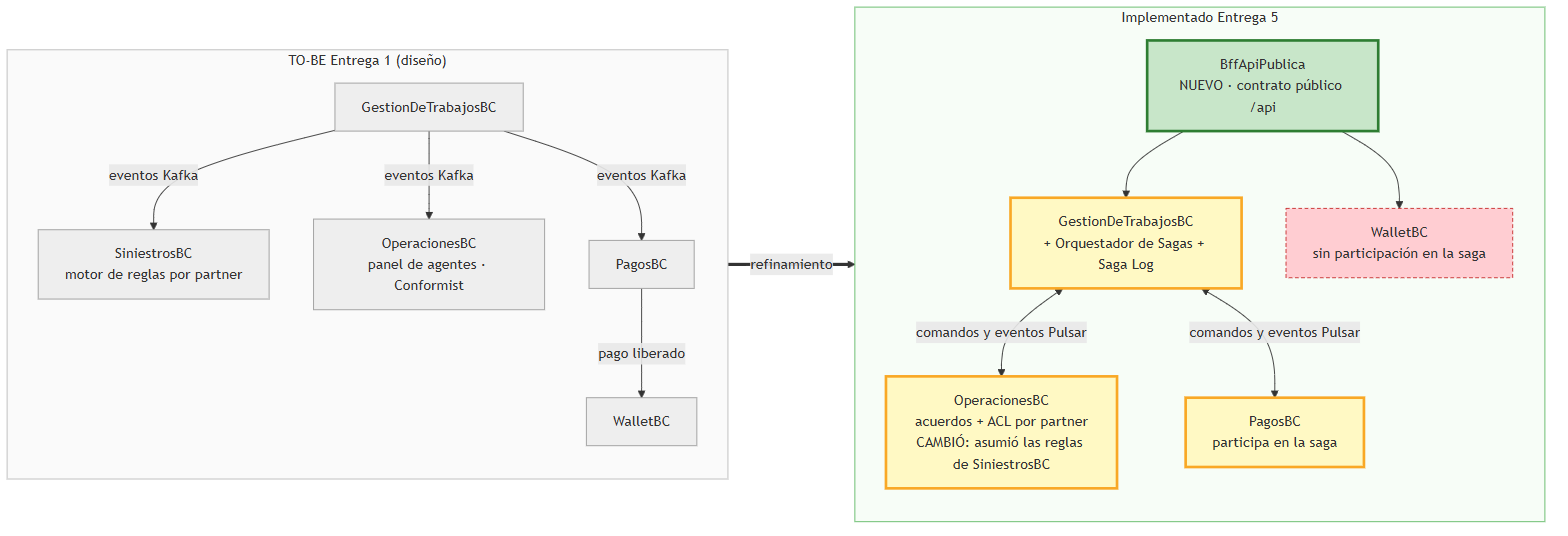
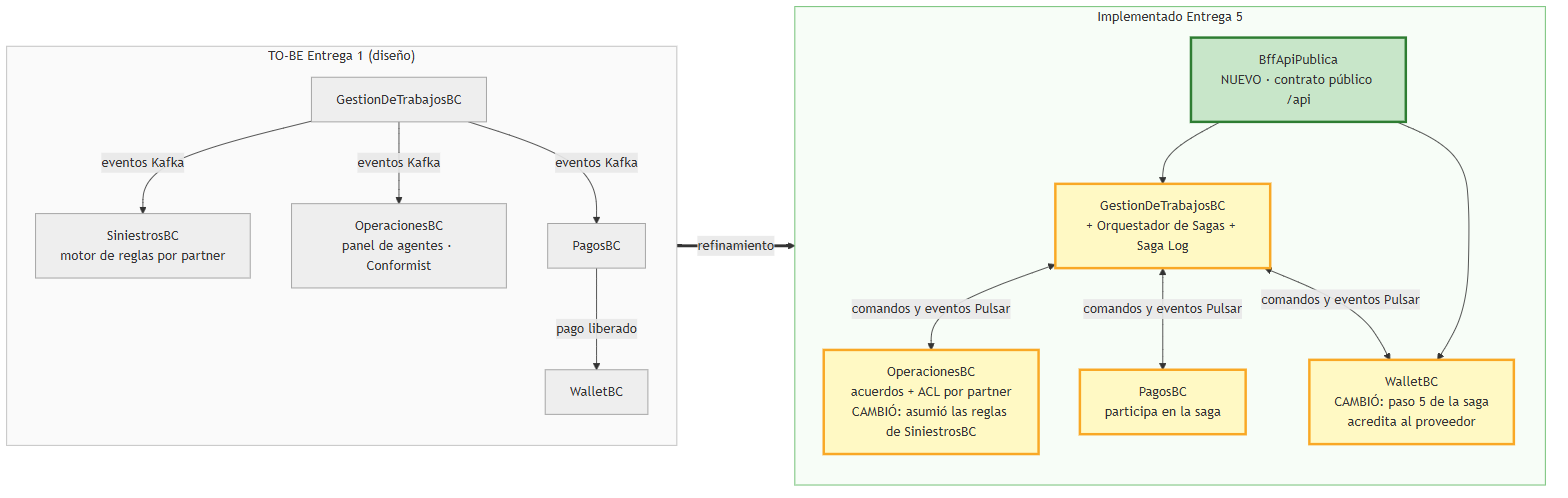
refinamiento y vistas

diff --git a/docs/semana-7/arquitectura-to-be-refinada.md b/docs/semana-7/arquitectura-to-be-refinada.md
@@ -25,10 +25,11 @@ Artefactos relacionados:
 | 2 | Reglas y acuerdos de partners | En `SiniestrosBC` | En **`OperacionesBC`** | El escenario de Modificabilidad #3 define como artefacto el "adaptador de entrada (ACL) para el nuevo partner en OperacionesBC" y exige **0 % de cambios en el dominio del core**. Poner las reglas junto al motor de trabajos habría obligado a redesplegarlo con cada partner. |
 | 3 | Relación core ↔ OperacionesBC | Conformist, solo lectura de eventos | **Anti-Corruption Layer en ambos sentidos** | OperacionesBC no solo consume eventos: traduce el formato propio de cada partner y emite el comando canónico `CrearTrabajoV1`. Ningún formato ajeno entra al core y ningún modelo interno sale sin traducir. |
 | 4 | Entrada de clientes | Cada bounded context expone su API | **BFF en `/api` + gateway Nginx en el puerto 80** | Un cliente externo no debe conocer la partición en microservicios ni hablar con Pulsar. El BFF es el contrato público; los prefijos por servicio del gateway quedan para depuración. |
-| 5 | Transacción distribuida | No modelada | **Saga por orquestación + Saga Log** | La activación de un servicio compromete dinero retenido y capacidad operativa con un partner. La orquestación centraliza la máquina de estados y ejecuta las compensaciones en orden inverso de forma determinista. |
+| 5 | Transacción distribuida | No modelada | **Saga por orquestación de 5 pasos sobre 4 servicios + Saga Log** | La activación de un servicio compromete dinero retenido, capacidad operativa y la liquidación al proveedor. La orquestación centraliza la máquina de estados y compensa en orden inverso; el último paso es la excepción deliberada (ver fila 9). |
 | 6 | Consistencia dentro de cada servicio | Implícita en el repositorio | **Unidad de trabajo por caso de uso** | El caso de uso decide la transacción, no el adaptador de persistencia. En OperacionesBC eso permite escribir acuerdo y vista del trabajo en una sola transacción. |
 | 7 | Contratos entre contextos | "Eventos estándar de ciclo de vida" | **Eventos de integración versionados** (`TrabajoCreadoV1` deprecada y `TrabajoCreadoV2` conviviendo) | Los consumidores tienen ciclos de release propios y los eventos quedan persistidos en el tópico: no existe un instante en que todos migren a la vez. |
-| 8 | Alcance | 9 bounded contexts | **4 implementados** (`GestionDeTrabajosBC`, `OperacionesBC`, `PagosBC`, `WalletBC`) **+ BFF** | Los otros cinco siguen siendo válidos como diseño objetivo; se marcan como planeados para no confundir diseño con evidencia. |
+| 8 | Alcance | 9 bounded contexts | **4 implementados** (`GestionDeTrabajosBC`, `OperacionesBC`, `PagosBC`, `WalletBC`) **+ BFF**, los cuatro participando en la saga | Los otros cinco siguen siendo válidos como diseño objetivo; se marcan como planeados para no confundir diseño con evidencia. |
+| 9 | Desenlace de un fallo | Solo compensación | **Compensación o disputa, según el paso** | Un fallo antes de ejecutar el trabajo se compensa en orden inverso. Si falla la acreditación al proveedor —el último paso—, el servicio ya se prestó: revertir el pago dejaría al proveedor trabajando gratis, así que el trabajo pasa a `EnDisputa` y la saga termina en `EN_DISPUTA` para revisión manual. |
 
 **Lo que no cambió:** `GestionDeTrabajosBC` sigue siendo el Core Domain y el upstream
 `[OHS, PL]` del que depende el resto. El refinamiento le quitó responsabilidades ajenas
@@ -61,10 +62,11 @@ flowchart LR
         D_CORE["GestionDeTrabajosBC<br/>+ Orquestador de Sagas + Saga Log"]
         D_OPS["OperacionesBC<br/>acuerdos + ACL por partner<br/>CAMBIÓ: asumió las reglas de SiniestrosBC"]
         D_PAG["PagosBC<br/>participa en la saga"]
-        D_WAL["WalletBC<br/>sin participación en la saga"]
+        D_WAL["WalletBC<br/>CAMBIÓ: paso 5 de la saga<br/>acredita al proveedor"]
         D_BFF --> D_CORE
         D_CORE <-->|"comandos y eventos Pulsar"| D_OPS
         D_CORE <-->|"comandos y eventos Pulsar"| D_PAG
+        D_CORE <-->|"comandos y eventos Pulsar"| D_WAL
         D_BFF --> D_WAL
     end
 
@@ -72,11 +74,9 @@ flowchart LR
 
     classDef nuevo fill:#c8e6c9,stroke:#2e7d32,stroke-width:3px
     classDef cambio fill:#fff9c4,stroke:#f9a825,stroke-width:3px
-    classDef pendiente fill:#ffcdd2,stroke:#c62828,stroke-dasharray:4 3
     classDef viejo fill:#eeeeee,stroke:#9e9e9e
     class D_BFF nuevo
-    class D_CORE,D_OPS,D_PAG cambio
-    class D_WAL pendiente
+    class D_CORE,D_OPS,D_PAG,D_WAL cambio
     class A_CORE,A_SIN,A_OPS,A_PAG,A_WAL viejo
     style ANTES fill:#fafafa,stroke:#bdbdbd
     style DESPUES fill:#f7fdf7,stroke:#66bb6a
@@ -85,25 +85,22 @@ flowchart LR
 | Convención | Significado |
 |---|---|
 | Verde | **Nuevo**: no existía en el TO-BE de la Entrega 1 (el BFF). |
-| Amarillo | **Cambió**: el contexto sigue existiendo, pero su responsabilidad o su patrón de relación se movió (el core asumió la orquestación; OperacionesBC asumió las reglas de partner y pasó de Conformist a ACL). |
-| Rojo punteado | **Pendiente**: previsto en el plan de la Entrega 5 pero aún sin implementar (WalletBC como participante de la saga). |
+| Amarillo | **Cambió**: el contexto sigue existiendo, pero su responsabilidad o su patrón de relación se movió (el core asumió la orquestación; OperacionesBC asumió las reglas de partner y pasó de Conformist a ACL; PagosBC y WalletBC pasaron a ser participantes de la saga). |
 | Gris | Sin cambios frente al diseño original. |
 
 ### 1.3 Divergencias entre el plan de la Entrega 5 y lo implementado
 
-El mapa refinado documenta **lo que está implementado y verificado**, no lo planeado. Tres
-puntos del documento de arquitectura de la Entrega 5 difieren del código, y conviene
-resolverlos antes del video para que la sustentación y el repositorio coincidan:
+El mapa refinado documenta **lo implementado**, no lo planeado. Tras la incorporación de
+WalletBC a la saga, la mayoría de las divergencias quedaron cerradas:
 
-| Punto | Documento de la Entrega 5 | Implementado | Decisión sugerida |
+| Punto | Documento de la Entrega 5 | Implementado | Estado |
 |---|---|---|---|
-| Ubicación del orquestador | Dentro de **WalletBC** (numeral 4.1) | Dentro de **GestionDeTrabajosBC**, con el Saga Log en `trabajos_db` | Mantener la implementación: el orquestador es dueño del agregado `Trabajo`, que es el argumento ya escrito en [`patron-sagas-y-saga-log.md`](patron-sagas-y-saga-log.md). Corregir el documento. |
-| Participantes de la saga | 5 pasos sobre 4 servicios, con `AcreditarProveedor` en WalletBC (numeral 3.1) | 4 pasos sobre **3 servicios**: GestionDeTrabajosBC, PagosBC y OperacionesBC | Implementar el paso de WalletBC (es el ítem de 19 pts de la rúbrica: saga con ≥4 servicios). Depende del dueño de Wallet. |
-| Nomenclatura | `AsignarProveedor`, `RetenerPago`, `EjecutarTrabajo`; estados `PROVEEDOR_ASIGNADO`, `PAGO_RETENIDO`… | `AutorizarPagoTrabajoV1`, `AsignarProveedorTrabajoV1`; estados `INICIADA`, `EN_PROCESO`, `COMPENSANDO`, `COMPENSADA`, `COMPLETADA_EXITOSA`, `FALLIDA` | Adoptar la del código, como pide la propia nota del documento ("renombrar para que el video y el código coincidan"). |
-
-En cuanto WalletBC entre a la saga, este mapa y las vistas de la sección 2 deben actualizarse:
-el paso 4 pasa a ser la acreditación al proveedor y la compensación del paso 3 (liberar la
-asignación) deja de ser código sin uso.
+| Participantes de la saga | 5 pasos sobre 4 servicios, con `AcreditarProveedor` en WalletBC | **5 pasos sobre 4 servicios**: crear trabajo (core), autorizar pago (Pagos), asignar proveedor (Operaciones), ejecutar trabajo (Operaciones) y acreditar al proveedor (Wallet) | ✅ **Resuelto** |
+| Compensación del fallo de acreditación | Reintento con backoff y, si falla, el trabajo pasa a `EnDisputa` sin reversar lo ya ejecutado | Idéntico: WalletBC reintenta 3 veces con backoff exponencial y, agotados, emite `AcreditacionFallidaV1`; el trabajo pasa a `EnDisputa` y la saga termina en `EN_DISPUTA` | ✅ **Resuelto** |
+| Nombres de comandos y eventos del paso de Wallet | `AcreditarProveedor` / `WalletAcreditada` | `AcreditarProveedorV1` / `WalletAcreditadaV1` (mismos nombres, con sufijo de versión) | ✅ **Resuelto** |
+| Ubicación del orquestador | Dentro de **WalletBC** (numeral 4.1) | Dentro de **GestionDeTrabajosBC**, con el Saga Log en `trabajos_db` | ⚠ **Divergente**. Se sostiene la implementación: el orquestador es dueño del agregado `Trabajo`, que es el argumento ya escrito en [`patron-sagas-y-saga-log.md`](patron-sagas-y-saga-log.md). Corregir el numeral 4.1 del documento. |
+| Orden y alcance de los pasos | 1 asignar proveedor · 2 retener pago · 3 ejecutar · 4 acreditar · 5 cerrar trabajo | 1 crear trabajo preliminar · 2 autorizar pago · 3 asignar proveedor · 4 ejecutar · 5 acreditar | ⚠ **Menor**. El dinero se retiene antes de comprometer a un proveedor, y el cierre del trabajo queda implícito al completar el paso 5. Actualizar la tabla 3.1 del documento. |
+| Estados de la máquina | `PROVEEDOR_ASIGNADO`, `PAGO_RETENIDO`, `EJECUTADA`, `ACREDITADA`, `COMPLETADA` | `INICIADA`, `EN_PROCESO`, `COMPENSANDO`, `COMPENSADA`, `COMPLETADA_EXITOSA`, `FALLIDA`, `EN_DISPUTA` | ⚠ **Menor**. El avance por paso se lee en `saga_pasos`, no en el estado global. Adoptar la nomenclatura del código, como pide la propia nota del documento. |
 
 ### 1.4 Definición Formal en ContextMapper
 
@@ -123,10 +120,10 @@ flowchart TB
 
     subgraph IMPL["Implementado y verificado"]
         direction TB
-        CORE["GestionDeTrabajosBC :8001<br/>Core Domain · Orquestador de Sagas · Saga Log"]
+        CORE["GestionDeTrabajosBC :8001<br/>Core Domain · Orquestador de Sagas (5 pasos) · Saga Log"]
         OPS["OperacionesBC :8002<br/>Acuerdos de partner · ACL por formato"]
         PAG["PagosBC :8003<br/>Pagos · ACL y breaker por PSP"]
-        WAL["WalletBC :8000<br/>Billetera del proveedor"]
+        WAL["WalletBC :8000<br/>Billetera del proveedor · paso 5 de la saga"]
     end
 
     subgraph PLAN["Planeado · diseño TO-BE sin implementación"]
@@ -147,6 +144,7 @@ flowchart TB
     CORE -->|"eventos-trabajo V1/V2 · OHS+PL a ACL"| OPS
     CORE -->|"saga · comandos y eventos de operaciones"| OPS
     CORE -->|"TrabajoCerradoV1 · CF<br/>saga · comandos y eventos de pago"| PAG
+    CORE -->|"saga · comandos y eventos de wallet<br/>acreditar al proveedor"| WAL
     PAG -.->|"planeado · pago liberado"| WAL
 
     IMPL -.->|"diseño TO-BE"| PLAN
@@ -170,6 +168,8 @@ flowchart TB
   **Apache Pulsar**; nunca hay una llamada REST entre bounded contexts.
 - Las dos flechas entre el core y `OperacionesBC` no son redundantes: una es el flujo de
   negocio (solicitud del partner y eventos del trabajo) y la otra es la saga.
+- Los cuatro bounded contexts implementados participan en la saga: el core la orquesta, y
+  PagosBC, OperacionesBC y WalletBC ejecutan un paso cada uno (Operaciones, dos).
 - El BFF es el **único** punto por el que entra un cliente externo al negocio.
 
 ---
@@ -193,6 +193,7 @@ sequenceDiagram
     participant Bus as Apache Pulsar
     participant Pagos as PagosBC
     participant Ops as OperacionesBC
+    participant Wal as WalletBC
 
     Cliente->>GW: POST /api/trabajos/completar-servicio
     GW->>BFF: POST /trabajos/completar-servicio
@@ -228,7 +229,24 @@ sequenceDiagram
         Orq->>Log: paso 3 EXITOSO
     end
 
-    Orq->>Orq: Unidad de trabajo: confirmar el trabajo
+    rect rgb(255, 245, 230)
+        note over Orq, Ops: Paso 4 — ejecución en campo (sin comando)
+        note right of Ops: El trabajo ya está asignado:<br/>Operaciones reporta cómo terminó
+        Ops->>Bus: eventos-operaciones · EjecucionTrabajoCompletadaV1
+        Bus->>Orq: entrega del evento
+        Orq->>Log: paso 4 EXITOSO
+    end
+
+    rect rgb(237, 247, 255)
+        note over Orq, Wal: Paso 5 — liquidación al proveedor
+        Orq->>Bus: comandos-wallet · AcreditarProveedorV1
+        Bus->>Wal: entrega del comando
+        Wal->>Wal: Unidad de trabajo: acreditar el saldo<br/>(idempotente por referencia de saga)
+        Wal->>Bus: eventos-wallet · WalletAcreditadaV1
+        Bus->>Orq: entrega del evento
+        Orq->>Log: paso 5 EXITOSO
+    end
+
     Orq->>Log: saga COMPLETADA_EXITOSA
 
     Cliente->>GW: GET /api/trabajos/{trabajo_id}/estado
@@ -249,8 +267,9 @@ Tres decisiones visibles en el diagrama:
 
 ### 2.2 Flujo Compensatorio ante Fallos
 
-Fallo en el paso 3 (sin proveedor disponible). Las compensaciones se ejecutan en **orden
-inverso**: primero se revierte el pago (paso 2) y luego se cancela el trabajo (paso 1).
+Fallo en el paso 4: el proveedor asignado no pudo ejecutar el trabajo. Como el servicio **no**
+se prestó, se compensa en **orden inverso estricto**, y cada compensación espera la
+confirmación de la anterior antes de seguir.
 
 ```mermaid
 sequenceDiagram
@@ -263,18 +282,24 @@ sequenceDiagram
     participant Pagos as PagosBC
     participant Ops as OperacionesBC
 
-    note over Orq, Pagos: Pasos 1 y 2 ya confirmados (trabajo preliminar y pago retenido)
+    note over Orq, Ops: Pasos 1, 2 y 3 confirmados (trabajo, pago retenido, proveedor asignado)
 
-    Orq->>Bus: comandos-operaciones · AsignarProveedorTrabajoV1
-    Bus->>Ops: entrega del comando
-    Ops->>Bus: eventos-operaciones · AsignacionProveedorRechazadaV1
+    Ops->>Bus: eventos-operaciones · EjecucionTrabajoFallidaV1
     Bus->>Orq: entrega del evento
 
     rect rgb(255, 230, 230)
         note over Orq, Log: Compensación en orden inverso
-        Orq->>Log: paso 3 FALLIDO · saga COMPENSANDO
 
-        note over Orq, Pagos: Compensación del paso 2
+        Orq->>Log: paso 4 FALLIDO · saga COMPENSANDO
+
+        note over Orq, Ops: Compensación del paso 3 — liberar al proveedor
+        Orq->>Bus: comandos-operaciones · LiberarAsignacionProveedorV1
+        Bus->>Ops: entrega del comando
+        Ops->>Bus: eventos-operaciones · AsignacionProveedorLiberadaV1
+        Bus->>Orq: entrega del evento
+        Orq->>Log: paso 3 COMPENSADO
+
+        note over Orq, Pagos: Compensación del paso 2 — devolver el dinero
         Orq->>Bus: comandos-pago · RevertirPagoTrabajoV1
         Bus->>Pagos: entrega del comando
         Pagos->>Pagos: Unidad de trabajo: liberar la retención
@@ -282,21 +307,72 @@ sequenceDiagram
         Bus->>Orq: entrega del evento
         Orq->>Log: paso 2 COMPENSADO
 
-        note over Orq, Log: Compensación del paso 1 (local)
+        note over Orq, Log: Compensación del paso 1 — local
         Orq->>Orq: Unidad de trabajo: cancelar el trabajo
         Orq->>Log: paso 1 COMPENSADO · saga COMPENSADA
     end
 
     Cliente->>BFF: GET /api/sagas/{saga_id}
-    BFF-->>Cliente: 200 estado COMPENSADA + motivo del rechazo
+    BFF-->>Cliente: 200 estado COMPENSADA + motivo del fallo
 ```
 
-- La saga permanece en `COMPENSANDO` mientras espera la confirmación del reverso. Solo pasa a
-  `COMPENSADA` cuando llega `PagoTrabajoRevertidoV1` con `revertido=true`.
-- Si el reverso falla, el paso queda en `ERROR` y la saga termina en `FALLIDA`: queda
-  registrada para intervención manual en vez de fingir consistencia.
-- El fallo puede forzarse para la demostración con `simular_fallo_en_paso` (`PAGO` u
-  `OPERACIONES`) en la solicitud de inicio.
+- **Cada eslabón espera la confirmación del anterior.** La saga permanece en `COMPENSANDO`
+  mientras tanto; solo pasa a `COMPENSADA` cuando el último paso local queda revertido.
+- **Si una compensación falla**, el paso queda en `ERROR` y la saga termina en `FALLIDA`:
+  queda registrada para intervención manual en vez de fingir consistencia.
+- **Fallos más tempranos recorren menos cadena.** Un rechazo de pago (paso 2) solo cancela el
+  trabajo; un rechazo de asignación (paso 3) revierte el pago y luego cancela el trabajo.
+- El fallo puede forzarse con `simular_fallo_en_paso` (`PAGO`, `OPERACIONES`, `EJECUCION` o
+  `WALLET`), o con `probar_saga_orquestada.py --modo` en sus variantes `exito`,
+  `compensar-pago`, `compensar-operaciones`, `compensar-ejecucion` y `disputa-wallet`.
+
+### 2.3 Flujo de disputa: el paso que no se compensa
+
+Fallo en el paso 5, la acreditación al proveedor. Aquí el trabajo **ya se ejecutó**: revertir
+el pago dejaría al proveedor sin respaldo de un servicio que sí prestó. Por eso este paso no
+se compensa.
+
+```mermaid
+sequenceDiagram
+    autonumber
+    participant Orq as GestionDeTrabajosBC<br/>Orquestador
+    participant Log as Saga Log
+    participant Bus as Apache Pulsar
+    participant Wal as WalletBC
+    participant Ops as OperacionesBC
+
+    note over Orq, Wal: Pasos 1 a 4 confirmados: el trabajo se ejecutó y el pago sigue retenido
+
+    Orq->>Bus: comandos-wallet · AcreditarProveedorV1
+    Bus->>Wal: entrega del comando
+
+    rect rgb(255, 243, 224)
+        note over Wal: Reintentos con backoff exponencial<br/>3 intentos, espera inicial 0,5 s, factor 2
+        Wal->>Wal: intento 1 falla (p. ej. cuenta bloqueada)
+        Wal->>Wal: intento 2 falla
+        Wal->>Wal: intento 3 falla
+    end
+
+    Wal->>Bus: eventos-wallet · AcreditacionFallidaV1 (intentos=3)
+    Bus->>Orq: entrega del evento
+
+    rect rgb(255, 235, 238)
+        note over Orq, Ops: Disputa, no compensación
+        Orq->>Log: paso 5 FALLIDO
+        Orq->>Orq: Unidad de trabajo: trabajo.marcar_en_disputa()
+        Orq->>Log: ABRIR_DISPUTA_REVISION_MANUAL (operaciones-service)
+        Orq->>Log: saga EN_DISPUTA
+    end
+
+    note over Ops: Un agente resuelve la disputa a mano:<br/>el dinero sigue retenido y trazado
+```
+
+- **Ni se revierte el pago ni se cancela el trabajo.** El agregado `Trabajo` pasa al estado
+  `EnDisputa` y publica `TrabajoEnDisputaV1` para que el resto del sistema se entere.
+- **La saga termina en `EN_DISPUTA`**, un desenlace final distinto de `COMPENSADA`: no es un
+  error del sistema, es trabajo pendiente para una persona.
+- **El dinero nunca queda sin registro**, que es la hipótesis del escenario de consistencia
+  transaccional: o se acredita, o queda retenido y trazado en el Saga Log.
 
 ---
 
@@ -320,7 +396,7 @@ flowchart TB
             CORE2["gestion-trabajos-2<br/>:8004 · perfil escalabilidad"]
             OPS["operaciones<br/>:8002 · /operaciones"]
             PAG["pagos<br/>:8003 · /pagos"]
-            WAL["wallet<br/>:8000 · /wallet"]
+            WAL["wallet<br/>:8000 · /wallet · paso 5 saga"]
             BUS["pulsar (standalone)<br/>:6650 · :8080"]
 
             DBT[("postgres-trabajos<br/>:5433 · trabajos_db<br/>+ Saga Log")]
@@ -341,6 +417,7 @@ flowchart TB
     CORE2 <--> BUS
     OPS <--> BUS
     PAG <--> BUS
+    WAL <--> BUS
 
     CORE --- DBT
     CORE2 --- DBT
@@ -382,6 +459,8 @@ flowchart TB
 | PagosBC | `pagos` | 8003 | `/pagos` | `pagos_db` |
 | WalletBC | `wallet` | 8000 | `/wallet` | `wallet_db` |
 
+Tópicos de Pulsar que usa la saga: `comandos-pago` / `eventos-pago`, `comandos-operaciones` / `eventos-operaciones` y `comandos-wallet` / `eventos-wallet`. Los eventos de negocio del core siguen viajando por `eventos-trabajo` y sus comandos por `comandos-trabajo`.
+
 > Al llamar los puertos directos use `127.0.0.1` y no `localhost`: no hay listener IPv6 y un
 > cliente que resuelva `localhost` intenta `::1` primero, perdiendo unos 2 segundos por
 > petición. El gateway no tiene ese problema.
@@ -396,11 +475,12 @@ sustenta y con la evidencia que debe aportarlo.
 
 | Refinamiento | Escenario de calidad que lo sustenta | Evidencia esperada | Estado de la evidencia |
 |---|---|---|---|
-| Apache Pulsar en lugar de Kafka, con suscripción `Shared` | Elasticidad ante picos de demanda (4x siniestros) | Latencia p50/p95/p99 y throughput con una y con dos réplicas del core; el reparto de comandos sin cambios de código | Script disponible: [`carga_escalabilidad.py`](../../gestion-trabajos-service/scripts/carga_escalabilidad.py). Resultados pendientes en [`informe-experimentacion.md`](informe-experimentacion.md) |
-| Saga orquestada con Saga Log en el core | Consistencia transaccional bajo fallo concurrente | Que no quede dinero retenido sin registro: para N sagas con fallos forzados, el estado del Saga Log debe cuadrar con lo retenido en PagosBC | Scripts disponibles: `probar_saga_orquestada.py --modo compensar-pago` y `--modo compensar-operaciones`. Resultados pendientes |
-| Comunicación solo por Pulsar entre contextos (nunca REST entre servicios) | Resiliencia ante caída de un bróker de Pulsar | Sagas en curso que se recuperan solas al restablecer el bróker, frente a las que quedan colgadas; tiempo de recuperación | Pendiente de ejecutar |
+| Apache Pulsar en lugar de Kafka, con suscripción `Shared` | Elasticidad ante picos de demanda (4x siniestros) | Latencia p50/p95/p99 y throughput con una y con dos réplicas del core; el reparto de comandos sin cambios de código | Scripts disponibles: [`carga_elasticidad_sagas.py`](../../gestion-trabajos-service/scripts/carga_elasticidad_sagas.py) y [`carga_escalabilidad.py`](../../gestion-trabajos-service/scripts/carga_escalabilidad.py). Resultados en [`experimentos-escenarios-saga.md`](experimentos-escenarios-saga.md) |
+| Saga orquestada con Saga Log en el core | Consistencia transaccional bajo fallo concurrente | Que no quede dinero retenido sin registro: para N sagas con fallos forzados, el estado del Saga Log debe cuadrar con lo retenido en PagosBC | Script disponible: [`auditoria_consistencia_sagas.py`](../../gestion-trabajos-service/scripts/auditoria_consistencia_sagas.py), que audita N sagas concurrentes con fallos forzados y verifica que ninguna deje dinero retenido sin registro. Los cuatro desenlaces se fuerzan con `probar_saga_orquestada.py --modo` |
+| Comunicación solo por Pulsar entre contextos (nunca REST entre servicios) | Resiliencia ante caída de un bróker de Pulsar | Sagas en curso que se recuperan solas al restablecer el bróker, frente a las que quedan colgadas; tiempo de recuperación | Script disponible: [`prueba_disponibilidad_pulsar.py`](../../gestion-trabajos-service/scripts/prueba_disponibilidad_pulsar.py) |
 | Reglas de partner en OperacionesBC y ACL por formato | Modificabilidad: integrar un partner nuevo | Onboarding de un partner sin tocar ni redesplegar el core (`docker compose up -d --build operaciones`), con el tiempo de actividad del core sin cambios | **Verificado**: 31 checks de los escenarios 9 y 3 en verde, incluido el onboarding de `cooperativa-sur` |
 | Circuit breaker por partner y por PSP | Resiliencia ante caída de un partner o un PSP | Que la caída de un partner no degrade a los demás, y la recuperación automática al volver | **Verificado**: el core responde en decenas de milisegundos con el partner caído; recuperación automática sin intervención |
+| Disputa en vez de compensación en el último paso | Consistencia transaccional (corrección del desenlace) | Que un fallo de acreditación deje el trabajo `EnDisputa` con el dinero trazado, en vez de revertir un servicio ya prestado | Verificable con `probar_saga_orquestada.py --modo disputa-wallet`: la saga termina en `EN_DISPUTA` |
 | BFF como única entrada síncrona y gateway como única puerta pública | Transversal a los tres escenarios (superficie de ataque y acoplamiento de clientes) | Clientes que no conocen ni Pulsar ni la partición en microservicios; puertos internos no alcanzables desde la red | **Verificado**: 29 checks del gateway en verde, con los puertos internos rechazando conexión desde la red |
 
 **Cómo cerrar esta sección:** cuando el informe de experimentación tenga los resultados de los
@@ -419,6 +499,7 @@ la presentación o el informe sin depender del renderizado de Mermaid:
 | Mapa de contextos TO-BE refinado | [`imagenes/mapa-contextos-to-be-refinado.png`](imagenes/mapa-contextos-to-be-refinado.png) |
 | Saga — flujo exitoso | [`imagenes/saga-happy-path.png`](imagenes/saga-happy-path.png) |
 | Saga — compensación | [`imagenes/saga-compensacion.png`](imagenes/saga-compensacion.png) |
+| Saga — disputa (paso sin compensación) | [`imagenes/saga-disputa.png`](imagenes/saga-disputa.png) |
 | Topología de despliegue | [`imagenes/topologia-despliegue.png`](imagenes/topologia-despliegue.png) |
 
 El `.mmd` de cada diagrama y las instrucciones para regenerarlos están en

diff --git a/README.md b/README.md
@@ -52,11 +52,13 @@ demuestra el escenario de calidad de Interoperabilidad (#7). Consulte
 el gateway en `/api`. Traduce cada solicitud de negocio en llamadas hacia el orquestador de la
 saga y WalletBC; ningún cliente externo conoce Apache Pulsar ni la partición en microservicios.
 
-La transacción larga *Activación de Servicio* se implementó como **saga por orquestación**: el
-coordinador vive en GestionDeTrabajosBC (dueño del agregado `Trabajo`), persiste cada
-transición en un **Saga Log** (`saga_instancias` y `saga_pasos` en `trabajos_db`) y coordina a
-PagosBC y OperacionesBC con comandos y eventos por Pulsar, compensando en orden inverso ante
-un fallo. Consulte [`bff-service/README.md`](bff-service/README.md) y
+La transacción larga *Activación de Servicio* se implementó como **saga por orquestación de
+cinco pasos sobre cuatro servicios**: el coordinador vive en GestionDeTrabajosBC (dueño del
+agregado `Trabajo`), persiste cada transición en un **Saga Log** (`saga_instancias` y
+`saga_pasos` en `trabajos_db`) y coordina a PagosBC, OperacionesBC y WalletBC con comandos y
+eventos por Pulsar. Ante un fallo compensa en orden inverso, con una excepción deliberada: si
+falla la acreditación al proveedor —el último paso, cuando el trabajo ya se ejecutó— el
+trabajo pasa a `EnDisputa` en vez de revertir un servicio ya prestado. Consulte [`bff-service/README.md`](bff-service/README.md) y
 [`docs/semana-7/patron-sagas-y-saga-log.md`](docs/semana-7/patron-sagas-y-saga-log.md).
 
 ---
@@ -162,7 +164,8 @@ Postman o el script que se indica. El detalle de hipótesis, método y métricas
 | **#4** | Escalabilidad / Elasticidad | Absorber picos de demanda (hasta 4x siniestros) escalando horizontalmente | Suscripción `Shared` sobre `comandos-trabajo` en `gestion-trabajos-service/` | `python -m scripts.carga_escalabilidad --num 200`, con y sin la réplica del perfil `escalabilidad` |
 | **#7** | Interoperabilidad / Resiliencia (PSPs) | Que la caída de una pasarela de pago no arrastre a las demás | Un adaptador ACL y un circuit breaker por PSP en `pagos-service/` | Colección de [`pagos-service/collections/`](pagos-service/collections/README.md) |
 | **#9** | Interoperabilidad / Resiliencia (partners) | Traducir el formato de cada partner y aislar su caída, con recuperación automática | ACL, hilo y circuit breaker por partner en `operaciones-service/` | Carpetas **01 a 04** de [`operaciones-service/collections/`](operaciones-service/collections/README.md) |
-| **Sagas** | Consistencia eventual / Corrección transaccional | Que un fallo a mitad de la transacción no deje dinero retenido sin registro | Orquestador y Saga Log en `gestion-trabajos-service/app/aplicacion/sagas/` | `python -m scripts.probar_saga_orquestada --modo exito` y `--modo compensar-pago` / `--modo compensar-operaciones` |
+| **Sagas** | Consistencia eventual / Corrección transaccional | Que un fallo a mitad de la transacción no deje dinero retenido sin registro | Orquestador y Saga Log en `gestion-trabajos-service/app/aplicacion/sagas/`; los pasos y compensaciones, en PagosBC, OperacionesBC y WalletBC | `python -m scripts.probar_saga_orquestada --modo` con `exito`, `compensar-pago`, `compensar-operaciones`, `compensar-ejecucion` y `disputa-wallet`; auditoría masiva con `auditoria_consistencia_sagas.py` |
+| **Disponibilidad** | Tolerancia a fallos de infraestructura | Que una caída del bróker de Pulsar no pierda sagas en curso | Reintentos y reconexión de los consumidores en los cuatro servicios | `python -m scripts.prueba_disponibilidad_pulsar` |
 
 Los cinco se resumen, con su relación a cada refinamiento del mapa de contextos, en la tabla de
 trazabilidad de

diff --git a/docs/semana-7/imagenes/README.md b/docs/semana-7/imagenes/README.md
@@ -8,8 +8,9 @@ uno queda junto al PNG para poder regenerarlo.
 |---|---|
 | `cambios-antes-despues.png` | Resaltado de cambios frente al TO-BE de la Entrega 1 |
 | `mapa-contextos-to-be-refinado.png` | Mapa de contextos TO-BE refinado: implementado vs. planeado |
-| `saga-happy-path.png` | Vista dinámica: flujo exitoso de la saga, desde el cliente externo |
-| `saga-compensacion.png` | Vista dinámica: compensación en orden inverso |
+| `saga-happy-path.png` | Vista dinámica: flujo exitoso de la saga (5 pasos, 4 servicios), desde el cliente externo |
+| `saga-compensacion.png` | Vista dinámica: compensación en orden inverso (fallo en la ejecución) |
+| `saga-disputa.png` | Vista dinámica: fallo de acreditación que termina en `EN_DISPUTA`, sin compensar |
 | `topologia-despliegue.png` | Vista de despliegue: contenedores, bases y puertos |
 
 ## Regenerar
@@ -20,7 +21,7 @@ Requiere Node y un Chrome o Edge instalado (no hace falta Graphviz):
 # Desde docs/semana-7, con la ruta de su navegador
 echo '{"executablePath": "C:/Program Files/Google/Chrome/Application/chrome.exe", "args": ["--no-sandbox"]}' > imagenes/puppeteer.json
 
-for d in cambios-antes-despues mapa-contextos-to-be-refinado saga-happy-path saga-compensacion topologia-despliegue; do
+for d in cambios-antes-despues mapa-contextos-to-be-refinado saga-happy-path saga-compensacion saga-disputa topologia-despliegue; do
   PUPPETEER_SKIP_DOWNLOAD=true npx -y @mermaid-js/mermaid-cli@11 \
     -i "imagenes/$d.mmd" -o "imagenes/$d.png" -b white -s 2 -p imagenes/puppeteer.json
 done
